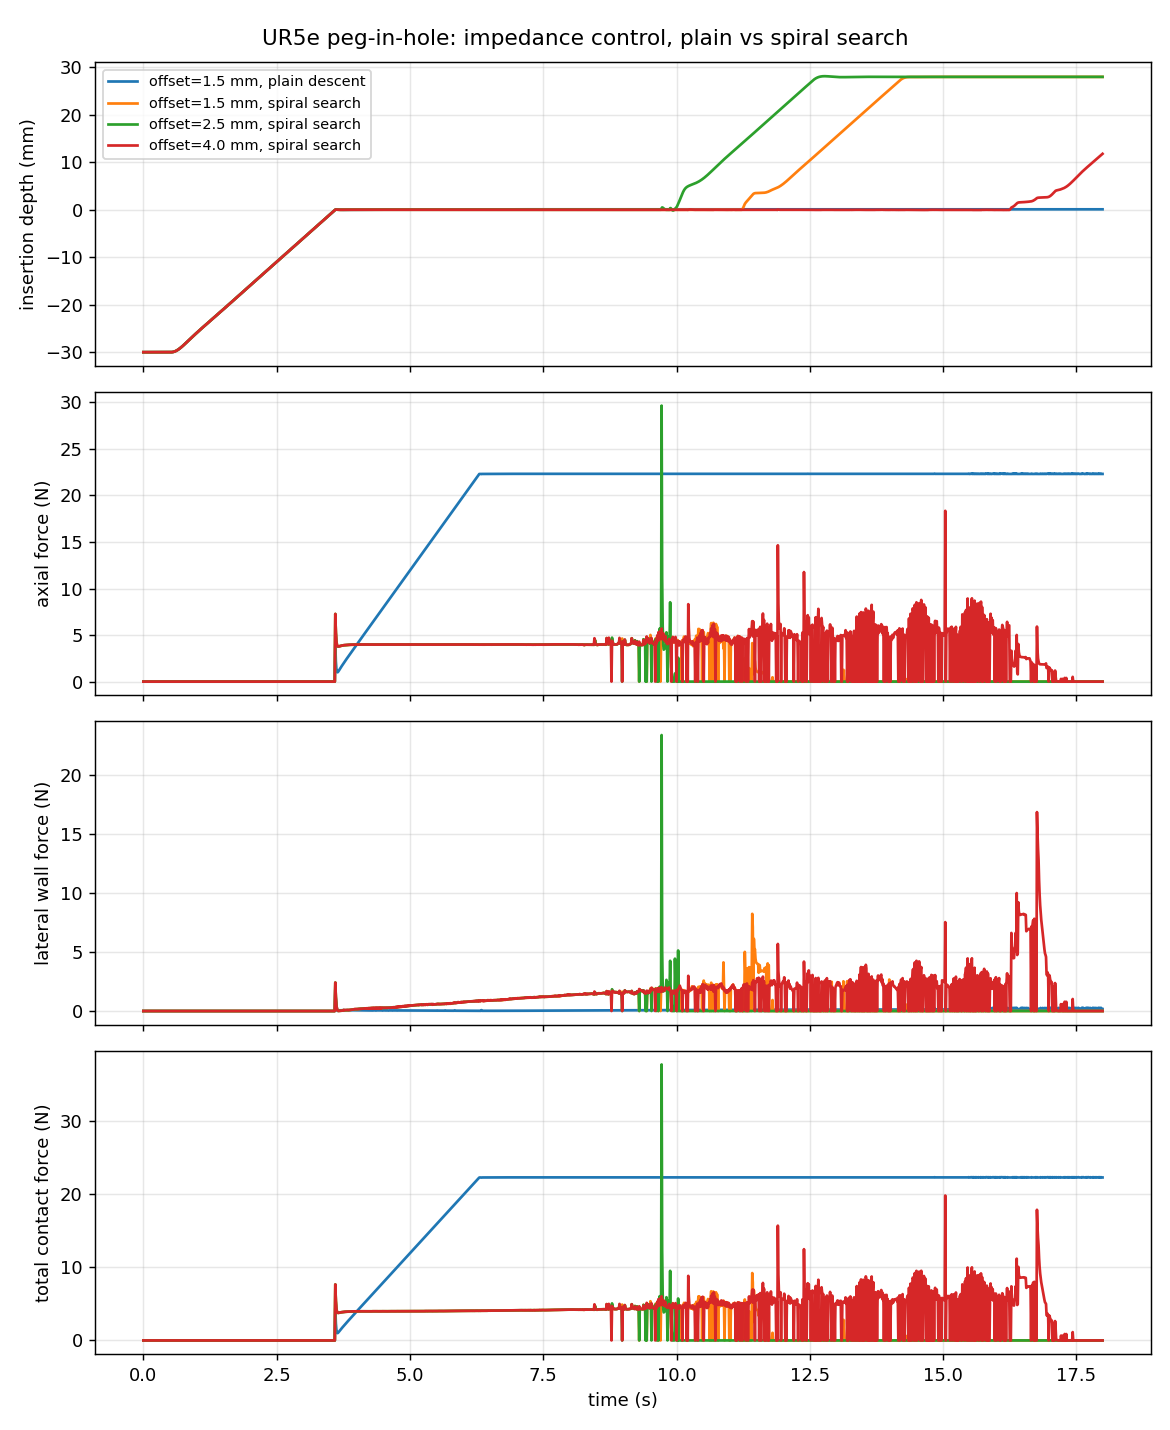
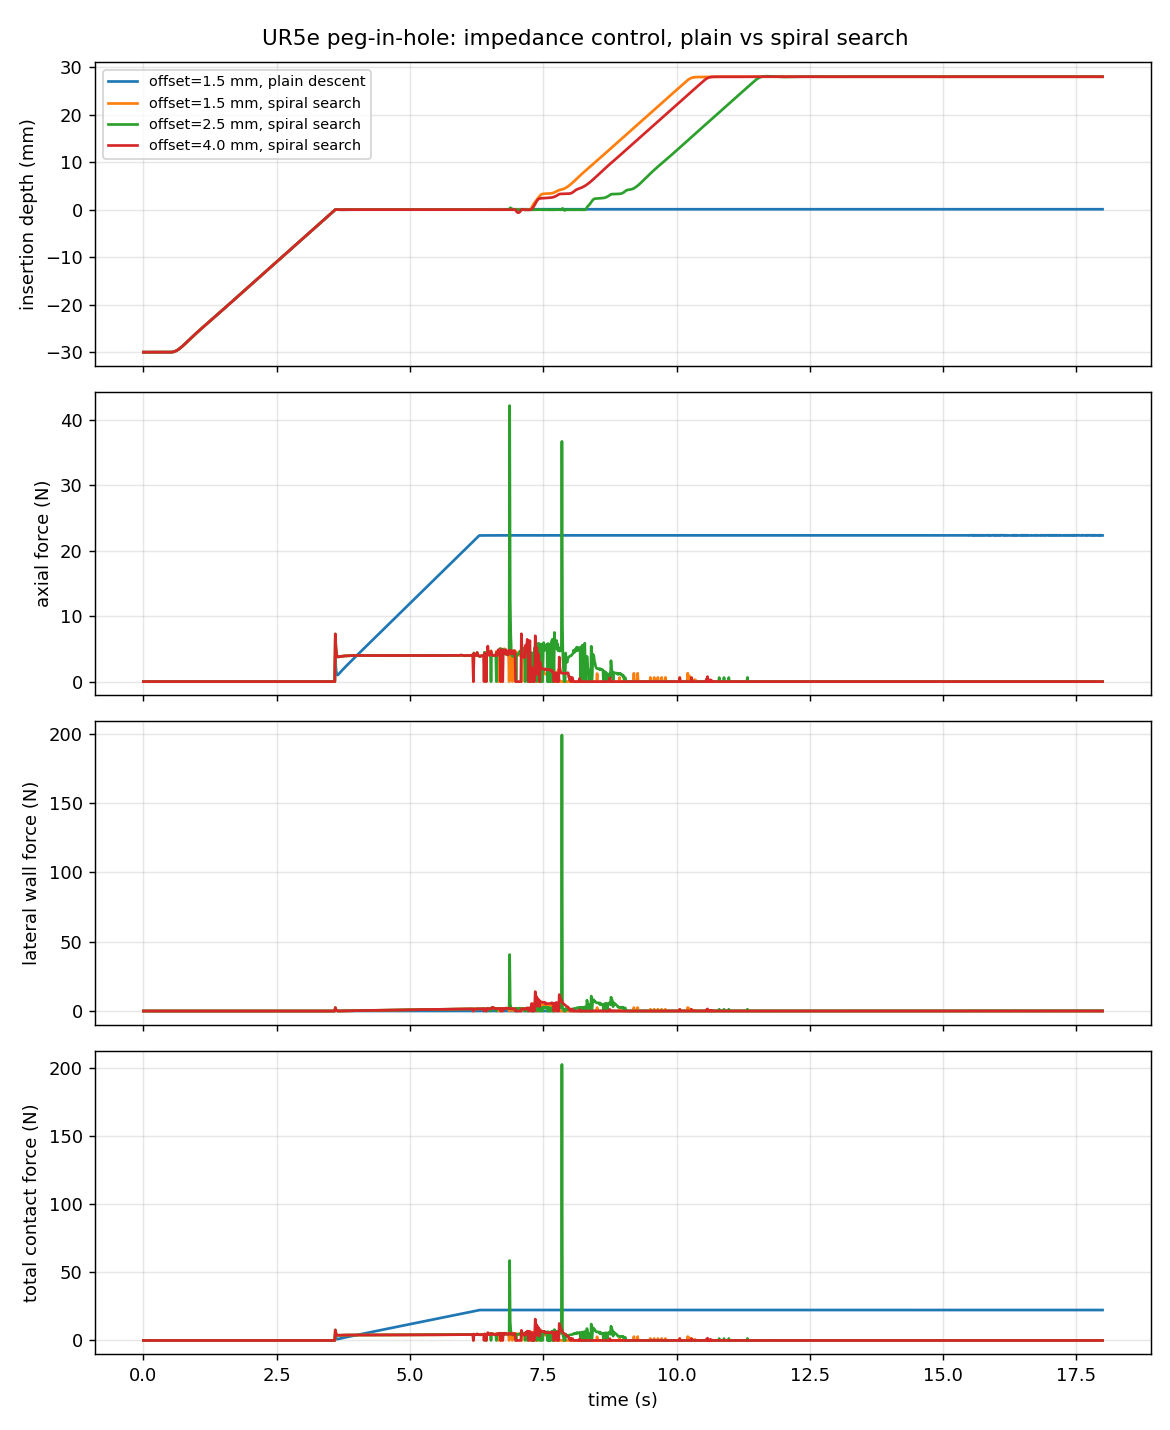
Add peg-in-hole success sweep and results

diff --git a/scripts/peg_in_hole/run_success_sweep.py b/scripts/peg_in_hole/run_success_sweep.py
@@ -1,0 +1,86 @@
+"""Success-rate sweep: lateral offset x Cartesian stiffness, plain descent vs force-triggered spiral search.
+
+Writes results/peg_in_hole_success_sweep.{csv,md,png}. UR5e, MuJoCo, ~1 s per trial.
+"""
+import csv
+import os
+import sys
+from multiprocessing import Pool
+
+import matplotlib
+matplotlib.use("Agg")
+import matplotlib.pyplot as plt
+import numpy as np
+
+here = os.path.dirname(os.path.abspath(__file__))
+root = os.path.abspath(os.path.join(here, "..", ".."))
+sys.path.insert(0, root)
+from envs.ur_peg_in_hole_env import PegInHole
+
+OFFSETS_MM = [0.0, 0.5, 1.0, 1.5, 2.0, 3.0, 4.0, 5.0]
+STIFFNESS = [300.0, 500.0, 800.0, 1200.0]
+ANGLES_DEG = [0, 90, 180, 270]           # offset direction, so one lucky axis does not decide the result
+_env = None
+
+
+def trial(a):
+    global _env
+    if _env is None:
+        _env = PegInHole()
+    off_mm, k, ang, search = a
+    th = np.radians(ang)
+    r = _env.run(k_lin=k, lateral_offset=(off_mm * 1e-3 * np.cos(th), off_mm * 1e-3 * np.sin(th)),
+                 t_end=20.0 if search else 7.0, search=search)
+    return a, bool(r["inserted"]), float(r["wall"].max()), float(r["axial"].max())
+
+
+def main():
+    jobs = [(o, k, a, s) for s in (False, True) for k in STIFFNESS for o in OFFSETS_MM
+            for a in (ANGLES_DEG if o > 0 else [0])]
+    with Pool(min(12, os.cpu_count() or 1)) as p:
+        res = p.map(trial, jobs)
+    rows, rate, peak = [], {}, {}
+    for s in (False, True):
+        for k in STIFFNESS:
+            for o in OFFSETS_MM:
+                sel = [x for x in res if x[0][3] == s and x[0][1] == k and x[0][0] == o]
+                ok = sum(x[1] for x in sel)
+                rate[s, k, o] = ok / len(sel)
+                peak[s, k, o] = max(x[2] for x in sel)
+                rows.append(["spiral" if s else "plain", k, o, len(sel), ok, f"{rate[s, k, o]:.2f}", f"{peak[s, k, o]:.1f}"])
+    out = os.path.join(root, "results")
+    with open(os.path.join(out, "peg_in_hole_success_sweep.csv"), "w", newline="") as f:
+        w = csv.writer(f)
+        w.writerow(["method", "k_lin_N_per_m", "offset_mm", "trials", "inserted", "success_rate", "peak_wall_force_N"])
+        w.writerows(rows)
+
+    md = ["# UR5e peg-in-hole success rate (MuJoCo)", "",
+          f"Insertion success over {len(ANGLES_DEG)} offset directions per cell (1 trial at 0 mm), 0.5 mm clearance per side. "
+          "Rows: Cartesian stiffness K (N/m); columns: lateral offset (mm).", ""]
+    for s, name in ((False, "Plain impedance descent"), (True, "Force-triggered spiral search")):
+        md += [f"## {name}", "", "| K (N/m) | " + " | ".join(f"{o:g}" for o in OFFSETS_MM) + " |",
+               "|---|" + "---|" * len(OFFSETS_MM)]
+        for k in STIFFNESS:
+            md.append(f"| {k:g} | " + " | ".join(f"{rate[s, k, o]:.0%}" for o in OFFSETS_MM) + " |")
+        md.append("")
+    open(os.path.join(out, "peg_in_hole_success_sweep.md"), "w").write("\n".join(md))
+
+    fig, ax = plt.subplots(1, 2, figsize=(11, 3.8), sharey=True)
+    for a, s, name in zip(ax, (False, True), ("plain descent", "spiral search")):
+        grid = np.array([[rate[s, k, o] for o in OFFSETS_MM] for k in STIFFNESS])
+        im = a.imshow(grid, vmin=0, vmax=1, cmap="RdYlGn", aspect="auto")
+        a.set_xticks(range(len(OFFSETS_MM)), [f"{o:g}" for o in OFFSETS_MM])
+        a.set_yticks(range(len(STIFFNESS)), [f"{k:g}" for k in STIFFNESS])
+        for i in range(grid.shape[0]):
+            for j in range(grid.shape[1]):
+                a.text(j, i, f"{grid[i, j]:.0%}", ha="center", va="center", fontsize=8)
+        a.set_title(name); a.set_xlabel("lateral offset (mm)")
+    ax[0].set_ylabel("stiffness K (N/m)")
+    fig.colorbar(im, ax=ax, label="insertion success rate")
+    fig.suptitle("UR5e peg-in-hole, 0.5 mm clearance per side")
+    fig.savefig(os.path.join(out, "peg_in_hole_success_sweep.png"), dpi=130, bbox_inches="tight")
+    print("\n".join(md))
+
+
+if __name__ == "__main__":
+    main()

diff --git a/results/peg_in_hole_success_sweep.md b/results/peg_in_hole_success_sweep.md
@@ -1,0 +1,21 @@
+# UR5e peg-in-hole success rate (MuJoCo)
+
+Insertion success over 4 offset directions per cell (1 trial at 0 mm), 0.5 mm clearance per side. Rows: Cartesian stiffness K (N/m); columns: lateral offset (mm).
+
+## Plain impedance descent
+
+| K (N/m) | 0 | 0.5 | 1 | 1.5 | 2 | 3 | 4 | 5 |
+|---|---|---|---|---|---|---|---|---|
+| 300 | 100% | 50% | 0% | 0% | 0% | 0% | 0% | 0% |
+| 500 | 100% | 75% | 0% | 0% | 0% | 0% | 0% | 0% |
+| 800 | 100% | 100% | 0% | 0% | 0% | 0% | 0% | 0% |
+| 1200 | 100% | 100% | 0% | 0% | 0% | 0% | 0% | 0% |
+
+## Force-triggered spiral search
+
+| K (N/m) | 0 | 0.5 | 1 | 1.5 | 2 | 3 | 4 | 5 |
+|---|---|---|---|---|---|---|---|---|
+| 300 | 100% | 100% | 75% | 25% | 25% | 25% | 0% | 0% |
+| 500 | 100% | 100% | 75% | 75% | 100% | 75% | 25% | 50% |
+| 800 | 100% | 100% | 75% | 100% | 75% | 100% | 100% | 50% |
+| 1200 | 100% | 50% | 0% | 0% | 0% | 0% | 0% | 0% |
